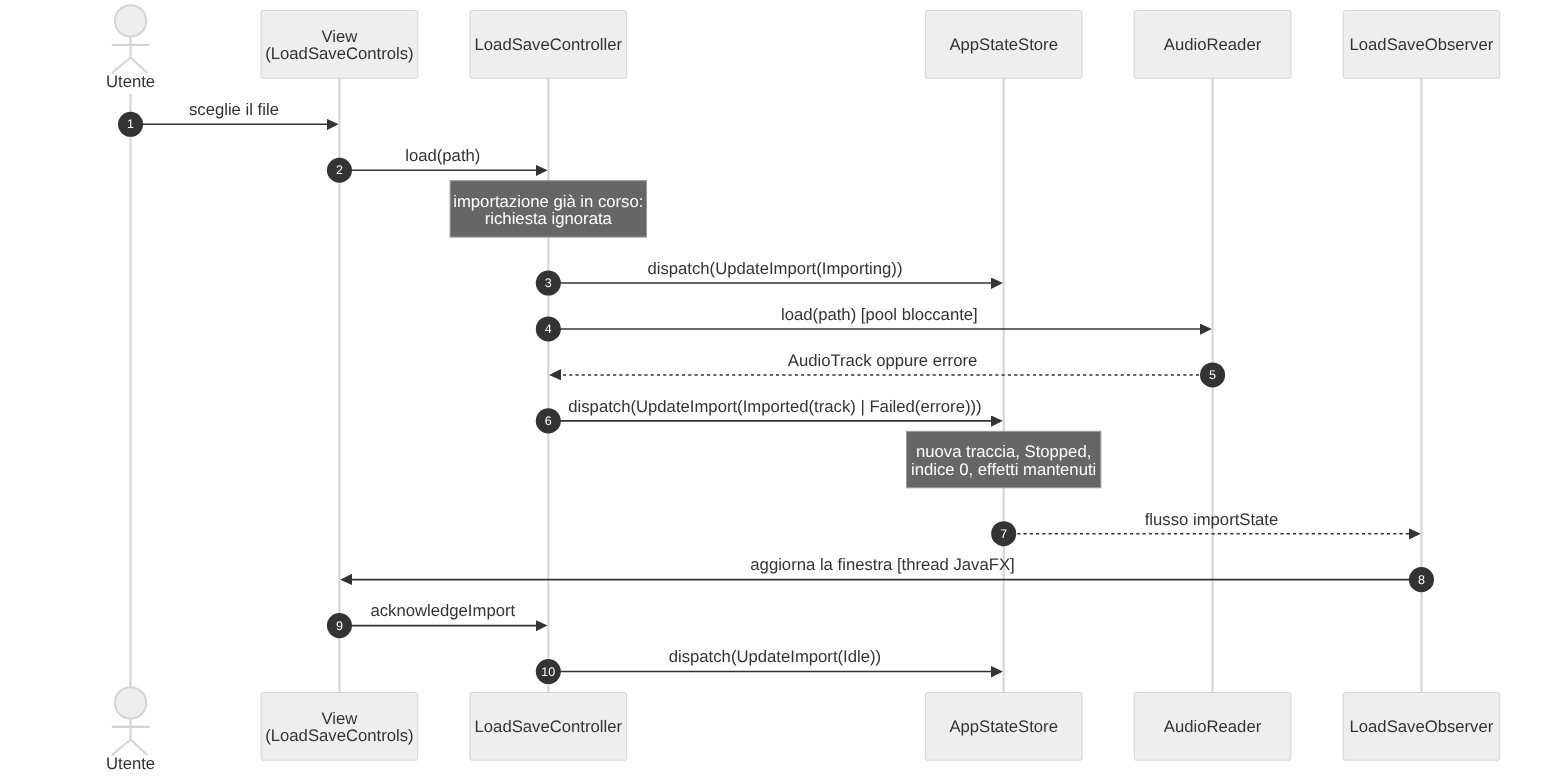
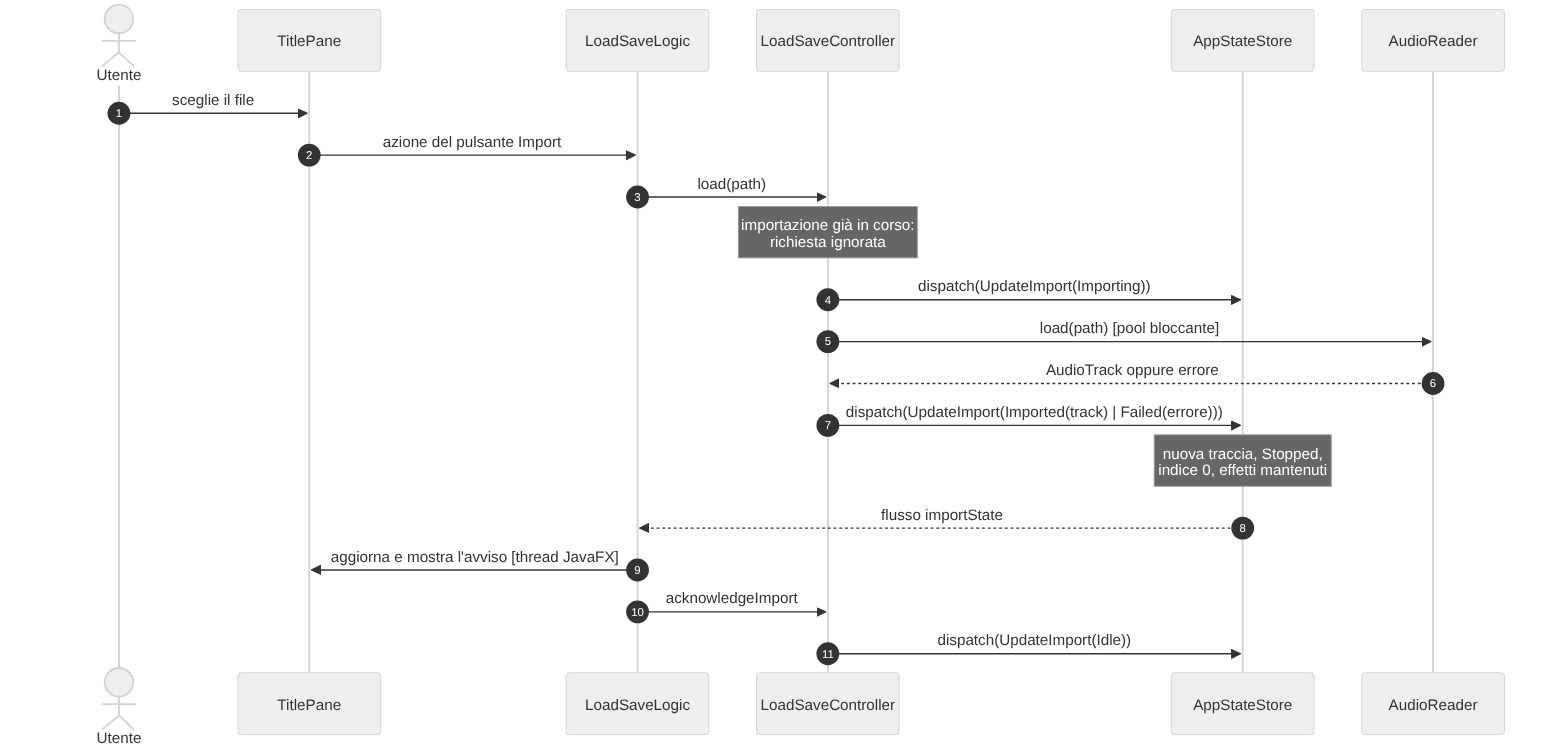
docs: improve appstate explanation

diff --git a/doc/05-detailed-design.md b/doc/05-detailed-design.md
@@ -5,8 +5,8 @@
 All'interno del package radice `scalasound`, il codice si articola nella seguente struttura:
 
 - **`model`**:
-  - `model.domain`: le classi di dominio `AudioChunk` (mono e stereo) e `AudioTrack` (mono e stereo).
-  - `model.state`: lo stato globale immutabile e i comandi che lo modificano, e lo store reattivo.
+  - `model.domain`: le classi di dominio `AudioChunk` e `AudioTrack`.
+  - `model.state`: lo stato globale immutabile, i comandi che lo modificano, e lo store reattivo.
   - `model.io`: lettura e scrittura dei file audio, con le implementazioni per il formato WAV e i relativi errori.
   - `model.player`: il motore di riproduzione e l'output audio.
   - `model.processing`: gli effetti, i processori audio e i relativi errori.
@@ -25,7 +25,7 @@ Il dominio è stato progettato dall'intero gruppo ed è evoluto nel tempo. L'aud
 - `AudioChunk` è un'enumerazione con due casi: `MonoChunk`, con un solo vettore di campioni, e `StereoChunk`, con i canali sinistro e destro separati. È l'unità alla base dell'elaborazione, della riproduzione e delle operazioni di importazione ed esportazione.
 - `AudioTrack` è il trait che rappresenta una traccia: espone la frequenza di campionamento e la sequenza ordinata di chunk che lo compone. Ha due implementazioni: `MonoTrack`, composta solo da `MonoChunk`, e `StereoTrack`, composta solo da `StereoChunk` in cui i canali sinistro e destro hanno la stessa lunghezza. In entrambe la frequenza di campionamento deve essere positiva.
 
-Sia `AudioChunk` sia `AudioTrack` espongono `frameCount`, il numero di frame contenuti. Un frame raccoglie i campioni di tutti i canali relativi allo stesso istante.
+Sia `AudioChunk` sia `AudioTrack` espongono `frameCount`, il numero di frame contenuti. Un frame comprende i campioni di tutti i canali relativi allo stesso istante: un campione in una traccia mono, due (sinistro e destro) in una stereo. Ad esempio, un chunk stereo con 1024 campioni per canale contiene 1024 frame, cioè 2048 campioni in totale.
 
 \newpage
 
@@ -33,9 +33,9 @@ Sia `AudioChunk` sia `AudioTrack` espongono `frameCount`, il numero di frame con
 
 Scelte di design:
 
-- la traccia composta da una sequenza di chunk di dimensione fissa (1024 frame quando importata). Questo permette di elaborare e riprodurre il flusso audio un blocco alla volta, solo quando necessario;
-- i campioni sono `Float` normalizzati in [-1, 1): tutti gli effetti lavorano su un'unica scala, indipendentemente dalla risoluzione in bit del file di provenienza, e il calcolo in virgola mobile non ha  problemi di overflow con gli interi a 16 bit (un guadagno potrebbe superare il valore massimo). Il `Float` inoltre occupa metà della memoria rispetto al `Double`;
-- `chunks` e i campioni (`samples`, `left`, `right`) sono contenuti in `Vector`, la sequenza immutabile di Scala con accesso per indice efficiente, che facilita l'operazione di seek. In questo modo spostare lo stato di avanzamento in un punto qualsiasi della traccia non richiede di percorrere i chunk precedenti, come invece accadrebbe con una `List`.
+- la traccia è composta da una sequenza di chunk di dimensione fissa (1024 frame quando importata). Questo permette di elaborare e riprodurre il flusso audio un blocco alla volta, solo quando necessario;
+- i campioni sono `Float` normalizzati in [-1, 1): tutti gli effetti lavorano su un'unica scala, indipendentemente dalla risoluzione in bit del file di provenienza, e il calcolo in virgola mobile non ha problemi di overflow con gli interi a 16 bit (un guadagno potrebbe superare il valore massimo). Il `Float` inoltre occupa metà della memoria rispetto al `Double`;
+- `chunks` e i campioni (`samples`, `left`, `right`) sono contenuti in `Vector`, la sequenza immutabile di Scala con accesso per indice efficiente, che facilita l'operazione di seek. In questo modo spostare la riproduzione in un punto qualsiasi della traccia non richiede di percorrere i chunk precedenti, come invece accadrebbe con una `List`.
 
 Casi limite:
 
@@ -46,44 +46,53 @@ Casi limite:
 
 ### Stato e comandi
 
-Lo stato globale è contenuto nella `case class` immutabile `AppState`, composta dai seguenti campi:
+Lo stato dell'applicazione è contenuto nella `case class` immutabile `AppState`, composta da:
 
-| Campo | Tipo | Significato |
-|----------------|------------------------|--------------------------------------------|
-| `playbackState` | `PlaybackState` | fase della riproduzione: `Stopped`, `Playing` o `Paused` |
-| `track` | `Option[AudioTrack]` | traccia caricata, se presente |
-| `chunkIndex` | `Int` | stato di avanzamento della riproduzione, come indice del chunk corrente |
-| `effects` | `List[AudioEffect]` | effetti attivi, al più uno per tipo |
-| `importState` | `ImportState` | ciclo dell'importazione: `Idle`, `Importing`, `Imported(track)` o `Failed(error)` |
-| `exportState` | `ExportState` | ciclo dell'esportazione: `Idle`, `Exporting`, `Exported` o `Failed(error)` |
+| Campo | Tipo | Significato | Valore iniziale |
+|----------------|------------------------|--------------------------------------------|----------------|
+| `playbackState` | `PlaybackState` | fase della riproduzione: `Stopped`, `Playing` o `Paused` | `Stopped` |
+| `track` | `Option[AudioTrack]` | traccia caricata, se presente | `None` |
+| `chunkIndex` | `Int` | indice del chunk da riprodurre | `0` |
+| `effects` | `List[AudioEffect]` | effetti attivi, al più uno per tipo | `List.empty` |
+| `importState` | `ImportState` | ciclo dell'importazione: `Idle`, `Importing`, `Imported(track)` o `Failed(error)` | `Idle` |
+| `exportState` | `ExportState` | ciclo dell'esportazione: `Idle`, `Exporting`, `Exported` o `Failed(error)` | `Idle` |
 
-Lo stato iniziale non ha traccia né effetti, ha la riproduzione `Stopped`, lo stato di avanzamento a zero e importazione ed esportazione in stato `Idle`. Ogni modifica è espressa da un `Command` (`Play`, `Pause`, `Stop`, `NextChunk`, `SeekToIndex`, `AddEffect`, `RemoveAll`, `UpdateImport`, `UpdateExport`) e applicata dalla funzione `AppState.handle`, che restituisce un nuovo `AppState` senza alterare il precedente.
+Lo stato iniziale ha i valori indicati nell'ultima colonna: nessuna traccia né effetto, riproduzione ferma e importazione ed esportazione a riposo. Lo stato non viene mai modificato: la funzione `AppState.handle` riceve un comando (`Command`) e restituisce una nuova versione di `AppState`, lasciando invariata quella precedente.
+
+I comandi disponibili e il loro effetto sui campi di `AppState` sono:
+
+- `Play`: imposta `playbackState` a `Playing`, ma solo se `track` contiene una traccia;
+- `Pause`: imposta `playbackState` a `Paused`, ma solo se la riproduzione è in corso;
+- `Stop`: imposta `playbackState` a `Stopped` e riporta `chunkIndex` a zero, in qualunque stato;
+- `NextChunk`: incrementa `chunkIndex` di uno, ma solo durante la riproduzione;
+- `SeekToIndex(index)`: imposta `chunkIndex` a `index`, riportato al primo o all'ultimo chunk se esce dall'intervallo valido; non cambia `playbackState` e, senza traccia, non ha effetto;
+- `AddEffect(effect)`: inserisce `effect` in `effects` al posto di quello dello stesso tipo, quindi nella lista c'è al massimo un effetto per tipo;
+- `RemoveAllEffects`: svuota `effects`;
+- `UpdateImport(state)`: imposta `importState` a `state`; se `state` è `Imported(track)`, sostituisce anche `track` con la nuova traccia, imposta `playbackState` a `Stopped` e `chunkIndex` a zero, lasciando invariati gli `effects`;
+- `UpdateExport(state)`: imposta `exportState` a `state`, senza toccare gli altri campi.
+
+\newpage
+
+La riproduzione è possibile solo se è stata caricata una traccia e passa attraverso tre fasi, `Stopped`, `Playing` e `Paused`, secondo le transizioni mostrate nel diagramma.
 
 ![Stati della riproduzione audio](doc/img/05-detailed-design/stati-riproduzione.png){ width=70% }
 
-Ogni comando ha un effetto preciso sullo stato, definito in `handle`:
+Le operazioni di importazione ed esportazione procedono per fasi, registrate nello stato (`importState` ed `exportState`) e lette dalla View per mostrare l'avanzamento all'utente. Seguono lo stesso ciclo, rappresentato da semplici valori dello stato: `Idle`, operazione in corso, esito (riuscita o fallita) e ritorno a `Idle` quando l'esito viene confermato.
 
-- `Play` porta la riproduzione in `Playing`, ma solo se è caricata una traccia;
-- `Pause` porta la riproduzione in `Paused`, ma solo se è in corso;
-- `Stop` porta la riproduzione in `Stopped` e riporta l'indice a zero;
-- `NextChunk` fa avanzare l'indice di un chunk, ma solo durante la riproduzione;
-- `SeekToIndex` imposta l'indice, limitandolo all'intervallo valido della traccia;
-- `AddEffect` aggiunge un effetto sostituendo quello dello stesso tipo, quindi nella lista c'è al massimo un effetto per tipo, mentre `RemoveAll` la svuota;
-- `UpdateImport` con `Imported` sostituisce la traccia, ferma la riproduzione, riporta l'indice a zero e mantiene gli effetti già scelti; con gli altri stati aggiorna solo lo stato di importazione, e `UpdateExport` fa lo stesso con quello di esportazione.
-
-Importazione ed esportazione seguono lo stesso ciclo, rappresentato da semplici valori dello stato: `Idle`, operazione in corso, esito (riuscita o fallita) e ritorno a `Idle` quando l'esito viene confermato.
-
-![Stati di importazione ed esportazione](doc/img/05-detailed-design/stati-import-export.png){ width=95% }
+![Stati di importazione ed esportazione](doc/img/05-detailed-design/stati-import-export.png){ width=75% }
 
 Scelte di design:
 
-- poiché `handle` non ha effetti collaterali, un comando non applicabile restituisce lo stato invariato invece di un errore.
+- la posizione nella traccia è rappresentata principalmente dall'indice del chunk da riprodurre (`chunkIndex`) e non da un tempo in secondi, che si ricava dall'indice solo quando serve; le richieste espresse in secondi sono convertite in indice dal livello dei controller. Inoltre, se la dimensione dei chunk è ben configurata, l'indice offre una risoluzione molto più fine del secondo: con chunk di 1024 frame a 44100 Hz, ad esempio, ogni chunk dura circa 23 ms;
+- l'esito di un'importazione o di un'esportazione, riuscito o fallito, resta nello stato finché non viene riconosciuto e solo allora si torna a `Idle`. In questo modo si forza il riconoscimento dell'esito;
+- gli effetti sono configurati dall'utente e non sono legati alla traccia. Per questo motivo l'importazione di un nuovo file li lascia invariati;
+- l'importazione di una nuova traccia ferma la riproduzione e riporta `chunkIndex` a zero, così il nuovo file non parte da un indice che aveva senso solo per la traccia precedente;
+- un comando che non si può applicare allo stato corrente non produce un errore: `handle` restituisce lo stato invariato.
 
 Casi limite:
 
-- `Play` senza traccia, `Pause` da fermo o `NextChunk` in pausa non modificano lo stato;
-- un `SeekToIndex` fuori dall'intervallo viene portato al primo o all'ultimo chunk, e su una traccia assente non ha effetto.
-
+- `Play` durante la riproduzione non modifica lo stato, e `Stop` da fermo azzera soltanto `chunkIndex` (utile dopo un seek). Entrambi si possono inviare più volte senza conseguenze;
+- un `SeekToIndex` fuori dall'intervallo viene portato al primo o all'ultimo chunk. Se la traccia è assente non ha effetto.
 
 ### Store dello stato
 
@@ -197,7 +206,7 @@ Casi limite:
 I controller espongono alla view le operazioni dell'utente e le traducono in comandi per lo store.
 
 - `PlaybackController` (play, pause, stop, seek) non contiene logica di stato: invia il comando corrispondente. Il seek converte i secondi nell'indice del chunk che contiene quel punto, riportando i valori fuori traccia al primo o all'ultimo chunk.
-- `EffectsController` invia `AddEffect` e `RemoveAll`.
+- `EffectsController` invia `AddEffect` e `RemoveAllEffects`.
 - `LoadSaveController` è l'unico che gestisce operazioni lente. `load` e `save` restituiscono un `IO` che avvia l'operazione in background sotto un `Supervisor` e termina subito; la lettura, oppure l'elaborazione seguita dalla scrittura, è eseguita in `IO.blocking`. In esportazione il controller legge dallo stato la traccia e gli effetti attivi, ne ottiene la versione elaborata con l'`AudioProcessor` e la passa all'`AudioWriter`.
 
 ![Sequenza dell'importazione](doc/img/05-detailed-design/sequenza-importazione.png){ width=100% }
